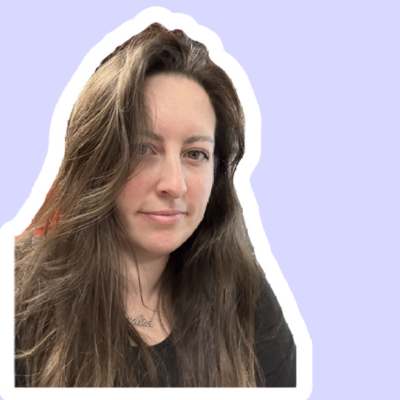
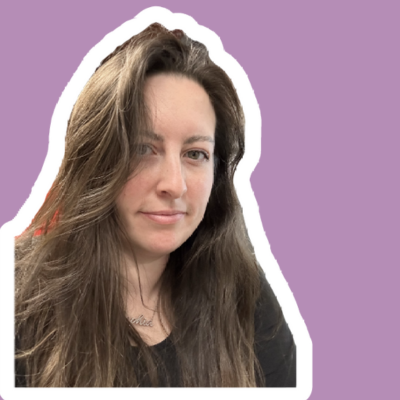
redesigned color scheme and added email link to navbar. Also added fonts

diff --git a/index.html b/index.html
@@ -14,10 +14,8 @@
     <link rel="stylesheet" href="/css/style.css" />
     <link rel="preconnect" href="https://fonts.googleapis.com" />
     <link rel="preconnect" href="https://fonts.gstatic.com" crossorigin />
-    <link rel="preconnect" href="https://fonts.googleapis.com" />
-    <link rel="preconnect" href="https://fonts.gstatic.com" crossorigin />
     <link
-      href="https://fonts.googleapis.com/css2?family=Inclusive+Sans&family=Poppins&display=swap"
+      href="https://fonts.googleapis.com/css2?family=Abril+Fatface&family=Josefin+Sans&display=swap"
       rel="stylesheet" />
     <script
       src="https://kit.fontawesome.com/ed867af948.js"
@@ -40,27 +38,35 @@
         </button>
         <div class="collapse navbar-collapse" id="navbarNav">
           <ul class="mx-auto navbar-nav">
-            <li class="nav-item">
+            <li class="nav-item px-5">
               <a class="nav-link active" aria-current="page" href="#">Home</a>
             </li>
-            <li class="nav-item">
+            <li class="nav-item px-5">
               <a class="nav-link" href="#">About</a>
             </li>
-            <li class="nav-item">
+            <li class="nav-item px-5">
               <a class="nav-link" href="#">Portfolio</a>
             </li>
           </ul>
         </div>
-      </div>
+       <div class="navbar-brand">
+        <div class="ms-auto">
+            <a href="mailto:info@sophia.pedley" class="nav-link"><i class="fa-regular fa-envelope pe-2"></i>info@sophia.pedley</a>
+        </div>
+       </div>
     </nav>
     <div class="container">
       <div class="row">
-        <div class="col-md-6">
+        <div class="col-md-6 mx-auto about-me rounded">
           <div id="text1">
-            <h2>Hello, I'm</h2>
+            <h1><i class="fa-regular fa-face-grin-beam pe-2"></i>Hello, I'm Sophia Pedley</h1>
           </div>
           <div id="text2">
-            <h1>Sophia Pedley</h1>
+            <p>I'm a front-end developer based in Liverpool, UK.</p>
+          </div>
+          <div class="button-container d-flex justify-content-center">
+            <a href="/contact.html" type="button" class="btn btn-custom btn-lg"
+              >Get in touch</a>
           </div>
         </div>
         <div class="d-flex justify-content-center col-md-6">

diff --git a/css/style.css b/css/style.css
@@ -1,21 +1,78 @@
+:root {
+  --text-color: #5d2e46;
+  --background-color: #e8d6cb;
+  --accent-color: #b58db6;
+  --button-background: #5d2e46;
+  --button-font-color: #b58db6;
+  --heading-font: "Abril Fatface";
+  --small-font: "Josefin Sans", "sans-serif";
+}
+
 h1,
 h2,
 h3,
 p {
   text-align: center;
+  color: var(--text-color);
+}
+
+h1 {
+  font-size: 26px;
+  font-family: var(--small-font);
+}
+
+p {
+  font-size: 40px;
+  font-family: "Abril Fatface";
 }
 
 .container {
   padding-top: 120px;
 }
 
-#text1 {
-  padding-left: 15px;
-  padding-top: 120px;
-  padding-bottom: 0%;
+.btn-custom {
+  background: var(--button-background);
+  color: var(--button-font-color);
+  border: none;
+  transition: all ease-in-out 200ms;
+  font-family: var(--small-font);
 }
 
-#text2 {
-  padding-left: 15px;
-  padding-bottom: 15px;
+.navbar {
+  background: var(--background-color) !important;
+}
+
+.nav-link,
+.navbar-brand {
+  color: var(--text-color) !important;
+}
+
+.navbar-brand {
+  font-family: var(--heading-font);
+}
+
+body {
+  background: var(--background-color);
+}
+
+.btn:hover {
+  background: var(--button-font-color);
+  color: var(--button-background);
+}
+
+.nav-link:hover {
+  color: var(--accent-color) !important;
+  transition: all ease-in-out 200ms;
+}
+
+.nav-link {
+  font-family: var(--small-font) !important;
+  font-size: 20px !important;
+}
+
+.about-me {
+  padding-top: 90px;
+  padding-left: 30px;
+  padding-right: 30px;
+  padding-bottom: 30px;
 }
